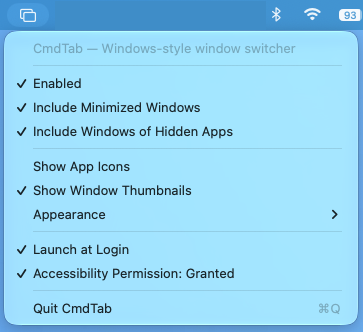
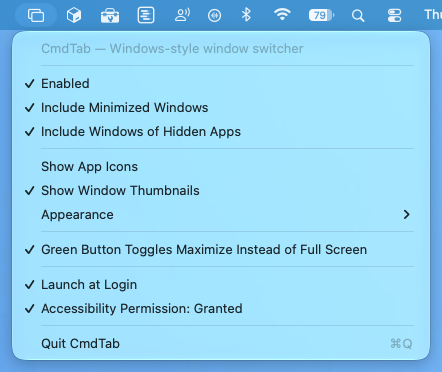
feat: add option to make window green button toggle maximize instead of full screen

diff --git a/Sources/GreenButtonTap.swift b/Sources/GreenButtonTap.swift
@@ -1,0 +1,103 @@
+import AppKit
+import ApplicationServices
+
+/// Makes a plain click on a window's green button toggle the window between filling its screen and its previous
+/// frame, instead of entering full screen. Option-click is left to the system.
+@MainActor
+final class GreenButtonTap {
+    private var tap: CFMachPort?
+    private var source: CFRunLoopSource?
+    private let systemWide = AXUIElementCreateSystemWide()
+    /// The mouse-down hit the green button and was swallowed, so its mouse-up is swallowed too.
+    private var clickOnButton = false
+    /// Windows this tap filled the screen with: the frame to restore, and the frame they got when filled.
+    private var zoomed: [CGWindowID: (restore: CGRect, filled: CGRect)] = [:]
+
+    init() {
+        // The hit test runs inside the tap callback; don't let a hung app stall every click.
+        AXUIElementSetMessagingTimeout(systemWide, 0.1)
+    }
+
+    func start() -> Bool {
+        if tap != nil { return true }
+        let mask = (1 << CGEventType.leftMouseDown.rawValue) | (1 << CGEventType.leftMouseUp.rawValue)
+        let callback: CGEventTapCallBack = { _, type, event, refcon in
+            guard let refcon else { return Unmanaged.passUnretained(event) }
+            let me = Unmanaged<GreenButtonTap>.fromOpaque(refcon).takeUnretainedValue()
+            return MainActor.assumeIsolated { me.handle(type: type, event: event) }
+        }
+        guard let tap = CGEvent.tapCreate(tap: .cgSessionEventTap, place: .headInsertEventTap, options: .defaultTap,
+                                          eventsOfInterest: CGEventMask(mask), callback: callback,
+                                          userInfo: Unmanaged.passUnretained(self).toOpaque()) else {
+            return false
+        }
+        self.tap = tap
+        source = CFMachPortCreateRunLoopSource(kCFAllocatorDefault, tap, 0)
+        CFRunLoopAddSource(CFRunLoopGetMain(), source, .commonModes)
+        CGEvent.tapEnable(tap: tap, enable: true)
+        return true
+    }
+
+    private func handle(type: CGEventType, event: CGEvent) -> Unmanaged<CGEvent>? {
+        let pass = Unmanaged.passUnretained(event)
+        switch type {
+        case .tapDisabledByTimeout, .tapDisabledByUserInput:
+            if let tap { CGEvent.tapEnable(tap: tap, enable: true) }
+        case .leftMouseDown:
+            guard Settings.greenButtonZooms, !event.flags.contains(.maskAlternate),
+                  let window = greenButtonWindow(at: event.location) else { return pass }
+            clickOnButton = true
+            // Resize outside the tap callback so the click itself isn't held up.
+            DispatchQueue.main.async { self.toggle(window) }
+            return nil
+        case .leftMouseUp:
+            if clickOnButton {
+                clickOnButton = false
+                return nil
+            }
+        default:
+            break
+        }
+        return pass
+    }
+
+    /// The window whose green button is at `point` (global display coordinates, top-left origin, as AX uses).
+    private func greenButtonWindow(at point: CGPoint) -> AXUIElement? {
+        var element: AXUIElement?
+        guard AXUIElementCopyElementAtPosition(systemWide, Float(point.x), Float(point.y), &element) == .success,
+              let element, AX.string(element, kAXSubroleAttribute) == "AXFullScreenButton" else { return nil }
+        return AX.element(element, kAXWindowAttribute)
+    }
+
+    private func toggle(_ window: AXUIElement) {
+        guard let id = AX.windowID(window), let frame = AX.frame(window) else { return }
+        // Still where we put it: put it back. Moved or resized since (or never filled): fill the screen.
+        if let entry = zoomed[id], Self.close(frame, entry.filled) {
+            zoomed[id] = nil
+            AX.setFrame(window, entry.restore)
+            return
+        }
+        let target = Self.visibleFrame(around: frame)
+        AX.setFrame(window, target)
+        // Apps may round the size (e.g. to whole terminal cells), so remember what it actually became.
+        zoomed[id] = (frame, AX.frame(window) ?? target)
+    }
+
+    private static func close(_ a: CGRect, _ b: CGRect) -> Bool {
+        abs(a.minX - b.minX) < 2 && abs(a.minY - b.minY) < 2 && abs(a.width - b.width) < 2 && abs(a.height - b.height) < 2
+    }
+
+    /// The usable area (no menu bar or Dock) of the screen holding most of `frame`, in AX coordinates.
+    private static func visibleFrame(around frame: CGRect) -> CGRect {
+        let primaryHeight = NSScreen.screens.first?.frame.height ?? 0
+        func flip(_ r: CGRect) -> CGRect { CGRect(x: r.minX, y: primaryHeight - r.maxY, width: r.width, height: r.height) }
+        let screen = NSScreen.screens.max { a, b in
+            flip(a.frame).intersection(frame).area < flip(b.frame).intersection(frame).area
+        } ?? NSScreen.main
+        return screen.map { flip($0.visibleFrame) } ?? frame
+    }
+}
+
+private extension CGRect {
+    var area: CGFloat { isNull ? 0 : width * height }
+}

diff --git a/Sources/AppDelegate.swift b/Sources/AppDelegate.swift
@@ -5,7 +5,7 @@ enum Settings {
     private static let d = UserDefaults.standard
 
     static func register() {
-        d.register(defaults: ["enabled": true, "includeMinimized": true, "includeHiddenApps": true, "showThumbnails": false, "appearance": "system"])
+        d.register(defaults: ["enabled": true, "includeMinimized": true, "includeHiddenApps": true, "showThumbnails": false, "appearance": "system", "greenButtonZooms": true])
     }
 
     static var enabled: Bool {
@@ -29,6 +29,11 @@ enum Settings {
         get { d.string(forKey: "appearance") ?? "system" }
         set { d.set(newValue, forKey: "appearance") }
     }
+    /// Clicking a window's green button toggles it between filling the screen and its previous frame, instead of entering full screen.
+    static var greenButtonZooms: Bool {
+        get { d.bool(forKey: "greenButtonZooms") }
+        set { d.set(newValue, forKey: "greenButtonZooms") }
+    }
 }
 
 @MainActor
@@ -36,6 +41,7 @@ final class AppDelegate: NSObject, NSApplicationDelegate, NSMenuDelegate {
     private var statusItem: NSStatusItem!
     private let controller = SwitcherController()
     private lazy var tap = HotkeyTap(controller: controller)
+    private let greenButtonTap = GreenButtonTap()
     private var permissionTimer: Timer?
     private var signalSources: [DispatchSourceSignal] = []
 
@@ -49,6 +55,7 @@ final class AppDelegate: NSObject, NSApplicationDelegate, NSMenuDelegate {
         item.representedObject = value
         return item
     }
+    private let greenButtonItem = NSMenuItem(title: "Green Button Toggles Maximize Instead of Full Screen", action: #selector(toggleGreenButton), keyEquivalent: "")
     private let loginItem = NSMenuItem(title: "Launch at Login", action: #selector(toggleLaunchAtLogin), keyEquivalent: "")
     private let permissionItem = NSMenuItem(title: "", action: #selector(openAccessibilitySettings), keyEquivalent: "")
 
@@ -85,6 +92,7 @@ final class AppDelegate: NSObject, NSApplicationDelegate, NSMenuDelegate {
         } else {
             NSLog("CmdTab: failed to create event tap")
         }
+        if !greenButtonTap.start() { NSLog("CmdTab: failed to create green button event tap") }
         updateMenu()
     }
 
@@ -137,6 +145,8 @@ final class AppDelegate: NSObject, NSApplicationDelegate, NSMenuDelegate {
         appearanceItem.submenu = appearanceMenu
         menu.addItem(appearanceItem)
         menu.addItem(.separator())
+        menu.addItem(greenButtonItem)
+        menu.addItem(.separator())
         menu.addItem(loginItem)
         menu.addItem(permissionItem)
         menu.addItem(.separator())
@@ -157,6 +167,7 @@ final class AppDelegate: NSObject, NSApplicationDelegate, NSMenuDelegate {
         for item in appearanceItems {
             item.state = item.representedObject as? String == Settings.appearance ? .on : .off
         }
+        greenButtonItem.state = Settings.greenButtonZooms ? .on : .off
         thumbnailsItem.title = Settings.showThumbnails && !Thumbnails.shared.hasPermission
             ? "Show Window Thumbnails (needs Screen Recording permission)"
             : "Show Window Thumbnails"
@@ -209,6 +220,11 @@ final class AppDelegate: NSObject, NSApplicationDelegate, NSMenuDelegate {
     @objc private func setAppearance(_ sender: NSMenuItem) {
         guard let value = sender.representedObject as? String else { return }
         Settings.appearance = value
+        updateMenu()
+    }
+
+    @objc private func toggleGreenButton() {
+        Settings.greenButtonZooms.toggle()
         updateMenu()
     }
 

diff --git a/Sources/AX.swift b/Sources/AX.swift
@@ -48,6 +48,27 @@ enum AX {
         return AXValueGetValue(v as! AXValue, .cgSize, &s) ? s : nil
     }
 
+    static func position(_ el: AXUIElement) -> CGPoint? {
+        guard let v = value(el, kAXPositionAttribute), CFGetTypeID(v) == AXValueGetTypeID() else { return nil }
+        var p = CGPoint.zero
+        return AXValueGetValue(v as! AXValue, .cgPoint, &p) ? p : nil
+    }
+
+    /// The element's frame in AX coordinates (top-left origin on the primary screen).
+    static func frame(_ el: AXUIElement) -> CGRect? {
+        guard let p = position(el), let s = size(el) else { return nil }
+        return CGRect(origin: p, size: s)
+    }
+
+    static func setFrame(_ el: AXUIElement, _ frame: CGRect) {
+        var origin = frame.origin, size = frame.size
+        let pos = AXValueCreate(.cgPoint, &origin)!, sz = AXValueCreate(.cgSize, &size)!
+        // Size, move, size again: a window may not grow past the screen edge until it has moved.
+        AXUIElementSetAttributeValue(el, kAXSizeAttribute as CFString, sz)
+        AXUIElementSetAttributeValue(el, kAXPositionAttribute as CFString, pos)
+        AXUIElementSetAttributeValue(el, kAXSizeAttribute as CFString, sz)
+    }
+
     static func windowID(_ el: AXUIElement) -> CGWindowID? {
         var wid: CGWindowID = 0
         return _AXUIElementGetWindow(el, &wid) == .success && wid != 0 ? wid : nil

diff --git a/README.md b/README.md
@@ -51,6 +51,12 @@ A small yellow badge marks windows you can't currently see:
 
 Normal windows have no badge. In icon view the badge sits on the icon's bottom-right corner; in thumbnail view it's at the right end of the title row.
 
+## Green button
+
+A plain click on a window's green button maximizes the window to fill the screen (minus the menu bar and Dock) instead of taking it full screen. Click it again to put the window back where it was. If you move or resize a maximized window, the next click maximizes it again rather than restoring.
+
+Only clicks that land on the green button are affected. Hovering still shows the button's tiling menu, and Option-click keeps the system's own zoom. Turn this off in the menu to get the standard full-screen behavior back.
+
 ## Menu
 
 The menu bar icon has these options:
@@ -59,6 +65,7 @@ The menu bar icon has these options:
 - **Include Minimized Windows** / **Include Windows of Hidden Apps**: show or skip those windows.
 - **Show App Icons** / **Show Window Thumbnails**: choose the view.
 - **Appearance**: System, Light or Dark, for the switcher panel only.
+- **Green Button Toggles Maximize Instead of Full Screen**: see [Green button](#green-button). On by default.
 - **Launch at Login**
 - **Accessibility Permission**: shows whether it's granted, and opens System Settings if it isn't.
 - **Quit CmdTab**
